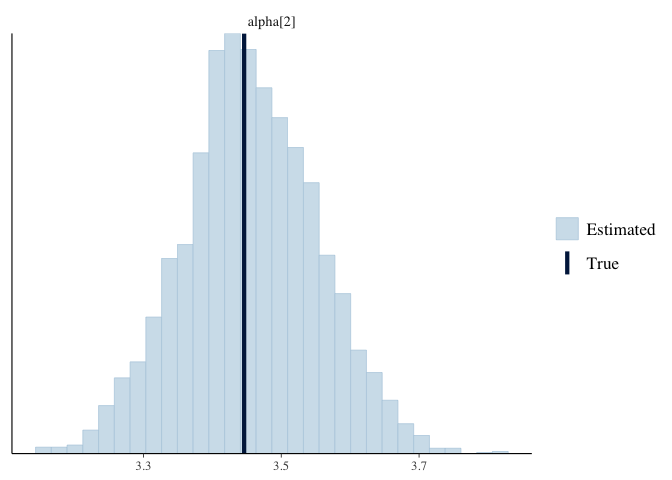
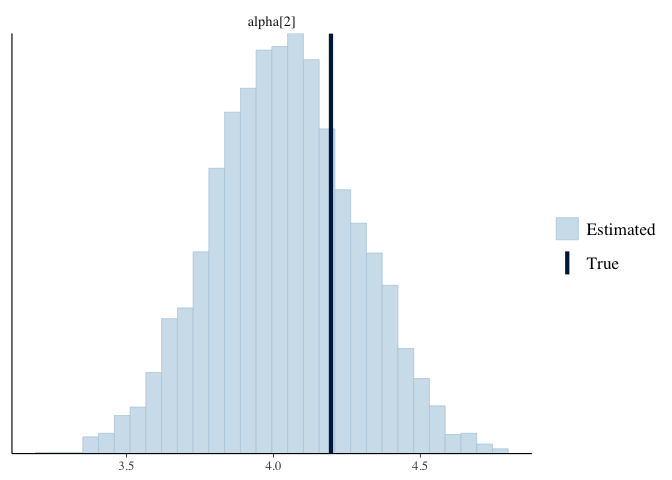
simulation with intercept only

diff --git a/Writing/05_bscm-hierarchy-testing.md b/Writing/05_bscm-hierarchy-testing.md
@@ -31,8 +31,12 @@ Z <- matrix(rbinom((K-1)*N, 1, .3), nrow=(K-1), ncol=N)
 #make a column of ones for Z for intercept
 Z <- Z %>% rbind(rep(1, N))
 
+#just intercept model
+Z <- rep(1, N)
+K=1
+
 #put in list for stan
-sim_values <- list(TT=TT, C=C, N=N, K=K, X=X, D=D, Z=Z)
+sim_values <- list(TT=TT, C=C, N=N, K=K, X=X, D=D, Z=t(as.matrix(Z)))
 ```
 
 Generate data in stan: the first stan model printed here is to generate
@@ -92,8 +96,8 @@ synthetic data using stan to test our actual model
     ## Chain 1: Iteration: 1 / 1 [100%]  (Sampling)
     ## Chain 1: 
     ## Chain 1:  Elapsed Time: 0 seconds (Warm-up)
-    ## Chain 1:                0.000364 seconds (Sampling)
-    ## Chain 1:                0.000364 seconds (Total)
+    ## Chain 1:                0.000347 seconds (Sampling)
+    ## Chain 1:                0.000347 seconds (Total)
     ## Chain 1:
 
 ##### MODEL
@@ -234,7 +238,7 @@ store1_pre <- sc_data %>% filter(treat_store==1, week<(I[1]+1))
 mean(store1_pre$alpha)
 ```
 
-    ## [1] -0.04073531
+    ## [1] 0.06703601
 
 ``` r
 #this is the treatment effect (alpha) in store 1 in the POST period. we expect this to be equal to the true alpha 
@@ -242,14 +246,14 @@ store1_post <- sc_data %>% filter(treat_store==1, week>I[1])
 mean(store1_post$alpha)
 ```
 
-    ## [1] 2.895154
+    ## [1] 1.213214
 
 ``` r
 #compare to true alpha for store 1
 sim_alpha[1]
 ```
 
-    ## [1] 2.661514
+    ## [1] 0.8985109
 
 Compare estimated average values for alpha to the true alpha in treated
 store 5
@@ -260,7 +264,7 @@ store5_pre <- sc_data %>% filter(treat_store==5, week<(I[1]+1))
 mean(store5_pre$alpha)
 ```
 
-    ## [1] 0.09186198
+    ## [1] 0.08826318
 
 ``` r
 #this is the treatment effect (alpha) in store 5 in the POST period. we expect this to be equal to the true alpha
@@ -268,11 +272,11 @@ store5_post <- sc_data %>% filter(treat_store==5, week>I[1])
 mean(store5_post$alpha)
 ```
 
-    ## [1] 1.835441
+    ## [1] 3.235479
 
 ``` r
 #compare to true alpha for store 5
 sim_alpha[5]
 ```
 
-    ## [1] 1.856131
+    ## [1] 3.122204
